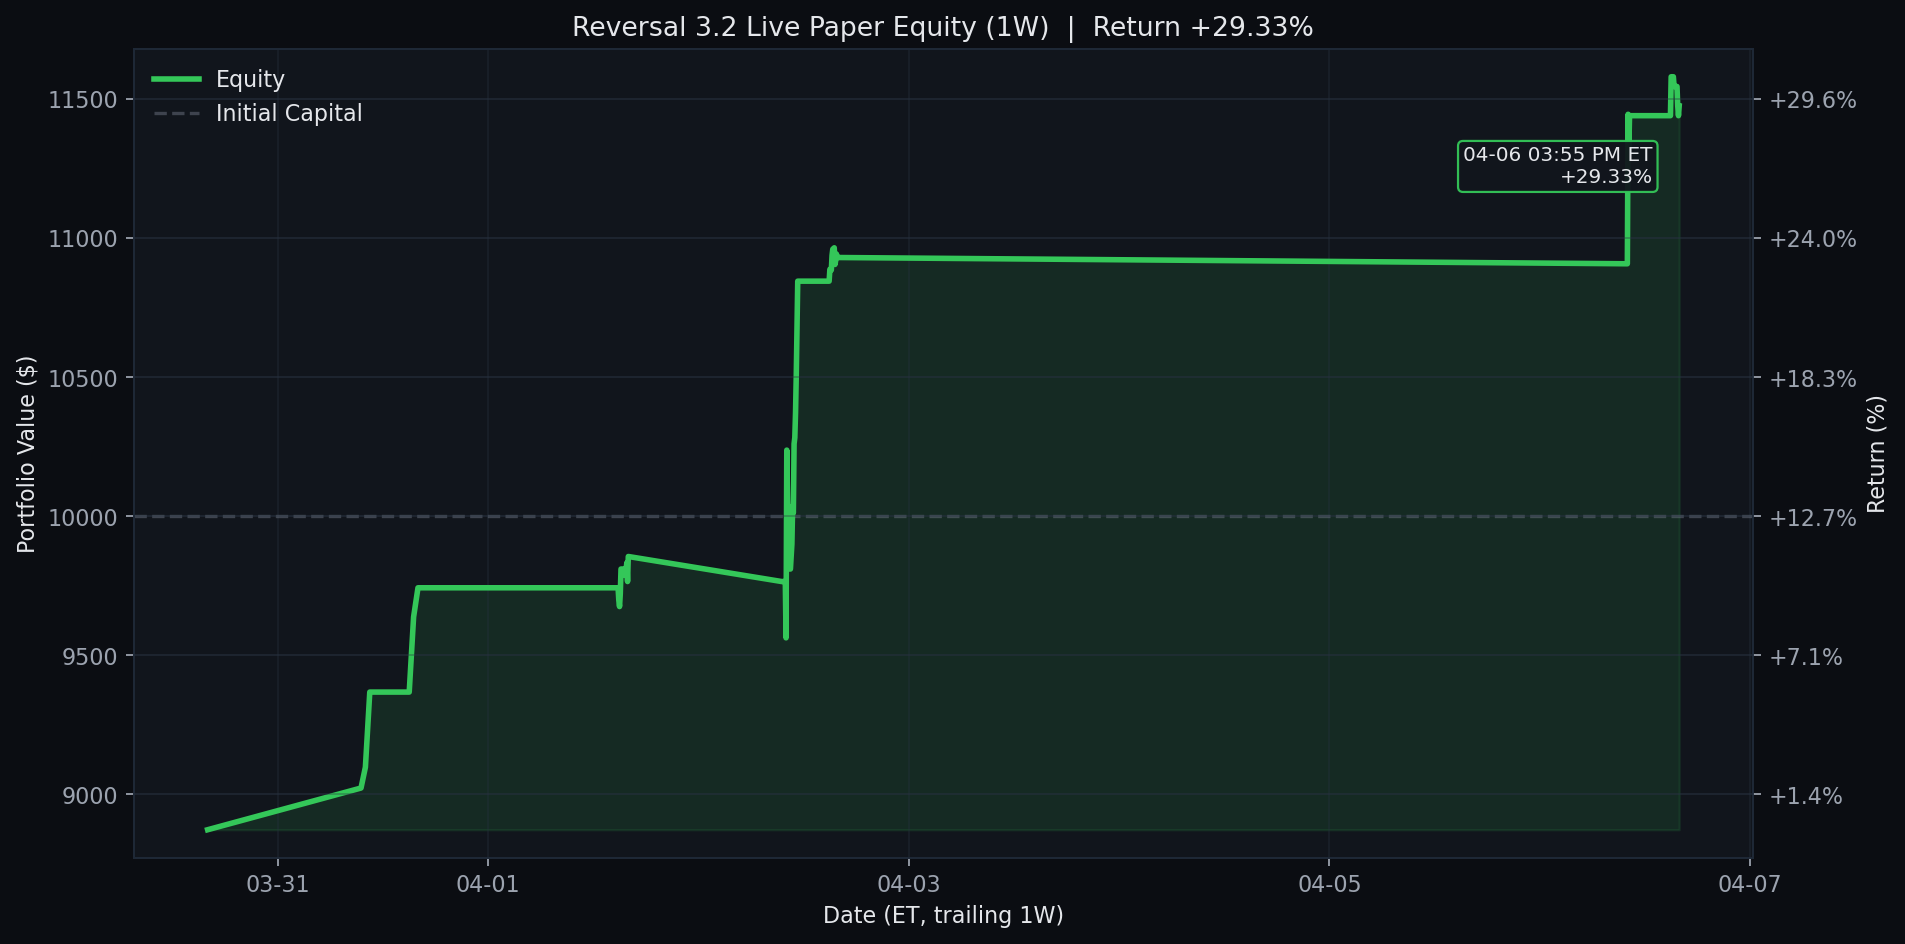
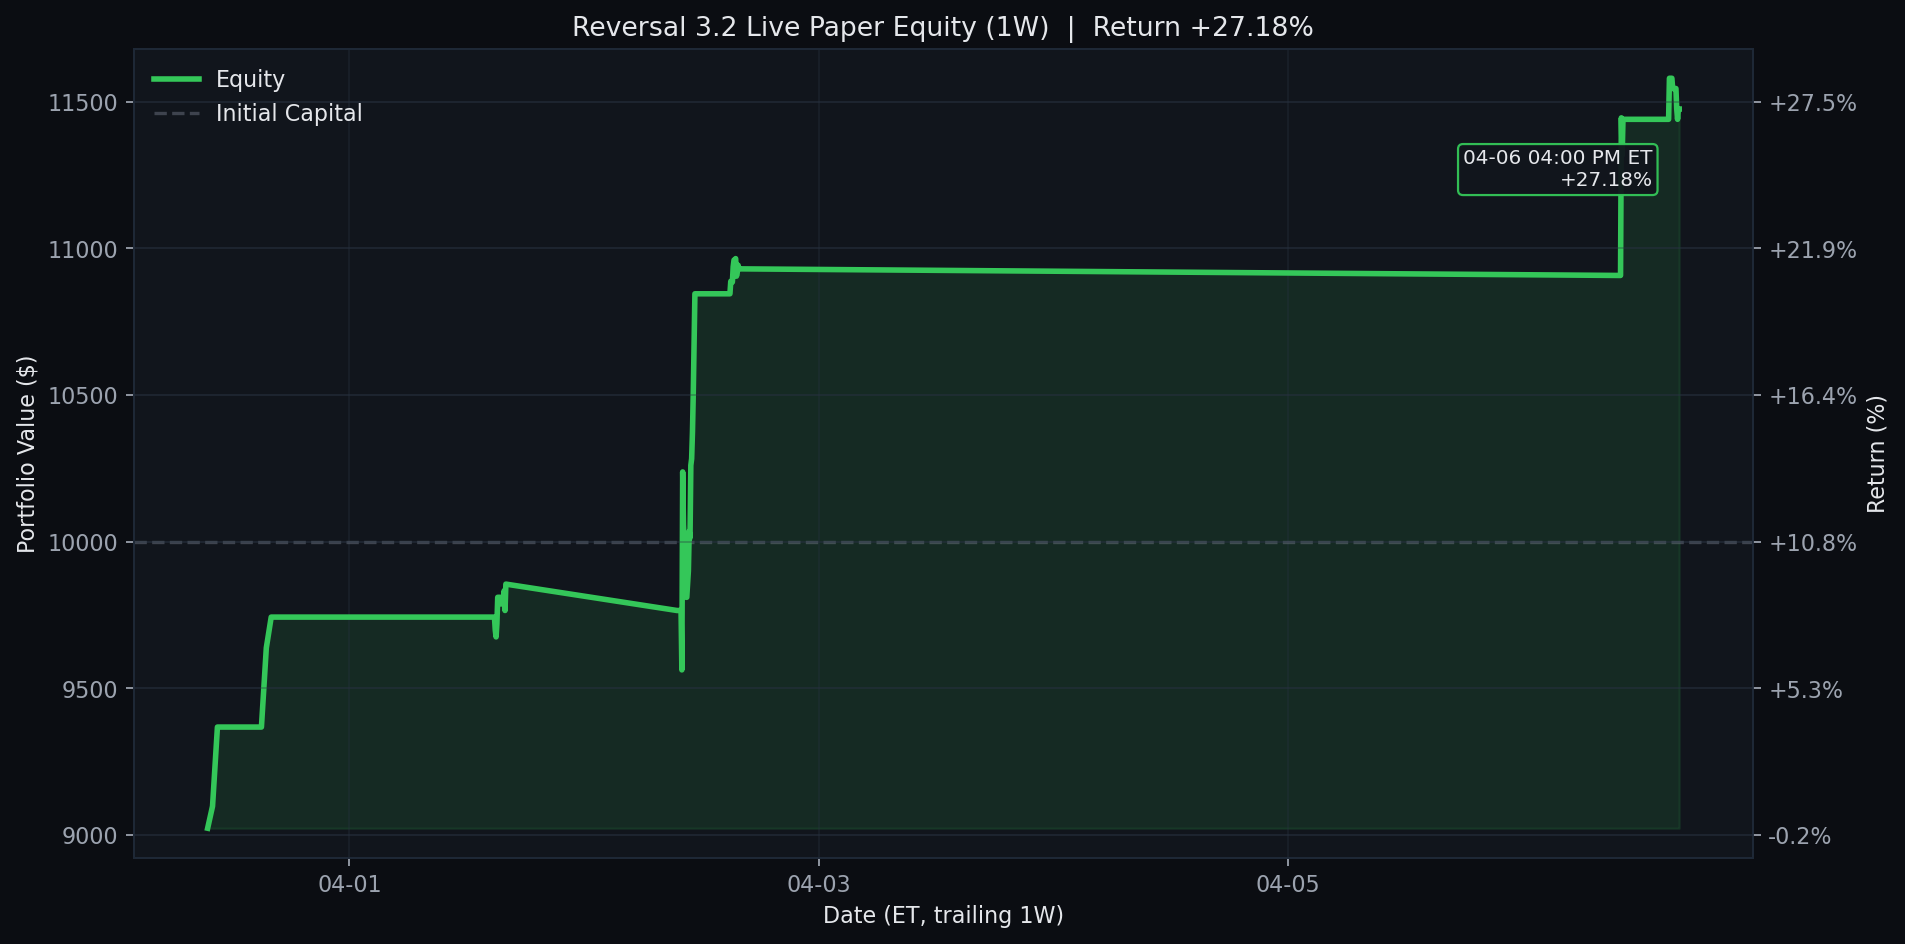
Update Reversal 3.2 live paper test 2026-04-06 16:00 ET

diff --git a/results/reversal_3_2_live/README.md b/results/reversal_3_2_live/README.md
@@ -1,6 +1,6 @@
 # Reversal 3.2 Live Paper Test
 
-Last updated (ET): `2026-04-06 15:55:05 EDT`
+Last updated (ET): `2026-04-06 16:00:05 EDT`
 Last processed slot: `manage_1600`
 
 ## Active Configuration
@@ -29,7 +29,7 @@ Last processed slot: `manage_1600`
 
 ```text
 ticker    contract_symbol entry_trade_date  business_days_held  contracts  cash_spent  current_position_value  entry_option_price  current_option_price  entry_spot  current_spot  unrealized_pnl  unrealized_return_pct  success_rate  matched_signals  current_drop_pct  entry_iv_pct  current_iv_pct  rolling_sigma_20d_pct
-   HON HON260515C00230000       2026-04-06                   0          7      5180.0                  5215.0                 7.4                  7.45      227.61        228.03            35.0                   0.68         100.0               20               0.8         28.89            28.6                  20.57
+   HON HON260515C00230000       2026-04-06                   0          7      5180.0                  5215.0                 7.4                  7.45      227.61        228.21            35.0                   0.68         100.0               20               0.8         28.89           28.31                  20.57
 ```
 
 ## Today's Closed Trades (2026-04-06)
@@ -43,24 +43,25 @@ ticker    contract_symbol entry_trade_date_et exit_trade_date_et  entry_option_p
 
 ```text
 ticker  success_rate_%  matched_signals  current_drop_%  target_rebound_$  target_price  rolling_sigma_20d_%  call_candidate
-   HON          100.00               22            0.63              1.01        229.02                20.57            True
-   XEL           91.67               24            0.51              0.29         80.62                19.13            True
-  FAST           89.29               28            0.94              0.30         46.17                21.85            True
-   EXC           88.24               17            0.74              0.26         49.22                21.30            True
-  ASML           87.10               31            1.03              9.51       1313.16                51.28            True
-   LIN           85.71               21            0.67              2.36        501.59                19.40            True
-  TSLA           85.00               20            2.22              5.61        358.19                42.35            True
-  VRTX           84.85               33            1.02              3.14        437.36                40.20            True
-  PANW           80.49               41            0.79              0.90        162.82                41.77            True
-  DDOG           80.00               20            3.36              2.83        119.15                49.88            True
-  CTAS           80.00               15            1.49              1.82        173.56                28.60            True
- CMCSA          100.00                8            0.98              0.19         27.85                25.15           False
+   HON          100.00               24            0.54              0.87        229.08                20.57            True
+  FAST           88.46               26            0.99              0.32         46.16                21.85            True
+   EXC           87.50               16            0.75              0.26         49.22                21.30            True
+  ASML           87.10               31            1.00              9.25       1313.26                51.28            True
+   LIN           86.96               23            0.62              2.19        501.66                19.40            True
+  TSLA           85.00               20            2.16              5.45        358.25                42.35            True
+  VRTX           84.85               33            1.01              3.09        437.39                40.20            True
+  PANW           80.49               41            0.77              0.88        162.83                41.77            True
+  DDOG           80.00               20            3.21              2.70        119.20                49.88            True
+  CTAS           80.00               15            1.52              1.86        173.54                28.60            True
+ CMCSA          100.00                8            0.97              0.19         27.85                25.15           False
+   AEP           93.75               32            0.24              0.22        132.58                17.01           False
 ```
 
 ## Recent Events
 
 ```text
                     timestamp_et        slot   event_type                                                                                                                                                                        detail
+2026-04-06T16:00:05.887844-04:00 manage_1600 slot_skipped                                                                                                                                               {"reason": "already_processed"}
 2026-04-06T15:55:05.885666-04:00 manage_1600 slot_skipped                                                                                                                                               {"reason": "already_processed"}
 2026-04-06T15:40:05.890163-04:00 manage_1530 slot_skipped                                                                                                                                               {"reason": "already_processed"}
 2026-04-06T15:35:05.886061-04:00 manage_1530 slot_skipped                                                                                                                                               {"reason": "already_processed"}
@@ -70,7 +71,6 @@ ticker  success_rate_%  matched_signals  current_drop_%  target_rebound_$  targe
 2026-04-06T15:00:05.880499-04:00  entry_1500 slot_skipped                                                                                                                                               {"reason": "already_processed"}
 2026-04-06T14:55:05.887845-04:00  entry_1500 slot_skipped                                                                                                                                               {"reason": "already_processed"}
 2026-04-06T14:50:05.889227-04:00  entry_1500        entry {"allocated_cash": 5180.0, "contract_symbol": "HON260515C00230000", "contracts": 7, "entry_option_price": 7.4, "matched_signals": 20, "success_rate": 100.0, "ticker": "HON"}
-2026-04-06T14:40:05.884687-04:00 manage_1430 slot_skipped                                                                                                                                               {"reason": "already_processed"}
 ```
 
 ## Equity Curves
@@ -80,20 +80,20 @@ Each chart is generated from the same live equity series with no-lookahead marks
 <details>
 <summary><strong>1D</strong></summary>
 
-![Reversal 3.2 Live Equity 1D](../../assets/reversal_3_2_live_equity_1d.png?v=20260406155505)
+![Reversal 3.2 Live Equity 1D](../../assets/reversal_3_2_live_equity_1d.png?v=20260406160005)
 
 </details>
 
 <details open>
 <summary><strong>1W</strong></summary>
 
-![Reversal 3.2 Live Equity 1W](../../assets/reversal_3_2_live_equity.png?v=20260406155505)
+![Reversal 3.2 Live Equity 1W](../../assets/reversal_3_2_live_equity.png?v=20260406160005)
 
 </details>
 
 <details>
 <summary><strong>1M</strong></summary>
 
-![Reversal 3.2 Live Equity 1M](../../assets/reversal_3_2_live_equity_1m.png?v=20260406155505)
+![Reversal 3.2 Live Equity 1M](../../assets/reversal_3_2_live_equity_1m.png?v=20260406160005)
 
 </details>

diff --git a/README.md b/README.md
@@ -3,7 +3,7 @@
 <!-- reversal-3.2-live:start -->
 ## Reversal 3.2 Live Paper Test
 
-- Last updated (ET): `2026-04-06 15:55:05 EDT`
+- Last updated (ET): `2026-04-06 16:00:05 EDT`
 - Equity: `$11,475.00` | Realized: `$1,440.00` | Unrealized: `$35.00` | Open positions: `1`
 - Today closed trades: `1`
 - Current slot: `manage_1600`
@@ -20,21 +20,21 @@ ticker    contract_symbol  contracts  cash_spent  current_position_value  curren
 <details>
 <summary><strong>1D</strong></summary>
 
-![Reversal 3.2 Live Equity 1D](assets/reversal_3_2_live_equity_1d.png?v=20260406155505)
+![Reversal 3.2 Live Equity 1D](assets/reversal_3_2_live_equity_1d.png?v=20260406160005)
 
 </details>
 
 <details open>
 <summary><strong>1W</strong></summary>
 
-![Reversal 3.2 Live Equity 1W](assets/reversal_3_2_live_equity.png?v=20260406155505)
+![Reversal 3.2 Live Equity 1W](assets/reversal_3_2_live_equity.png?v=20260406160005)
 
 </details>
 
 <details>
 <summary><strong>1M</strong></summary>
 
-![Reversal 3.2 Live Equity 1M](assets/reversal_3_2_live_equity_1m.png?v=20260406155505)
+![Reversal 3.2 Live Equity 1M](assets/reversal_3_2_live_equity_1m.png?v=20260406160005)
 
 </details>
 
